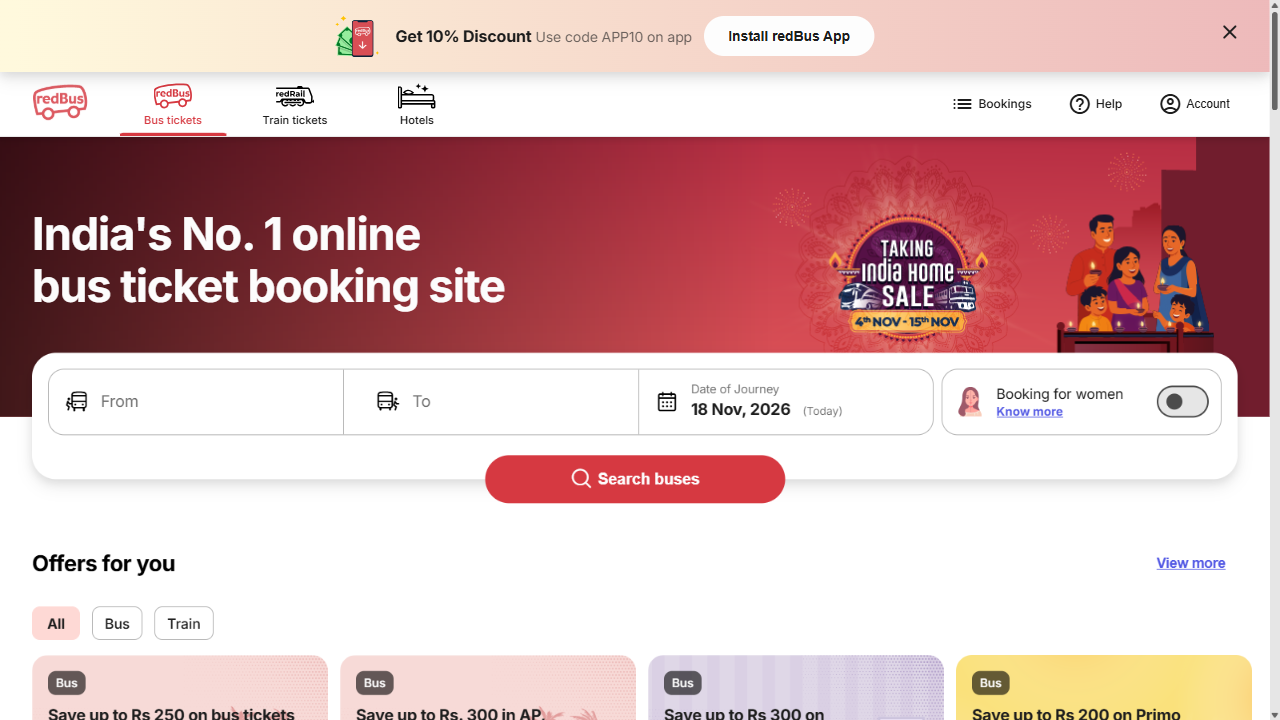
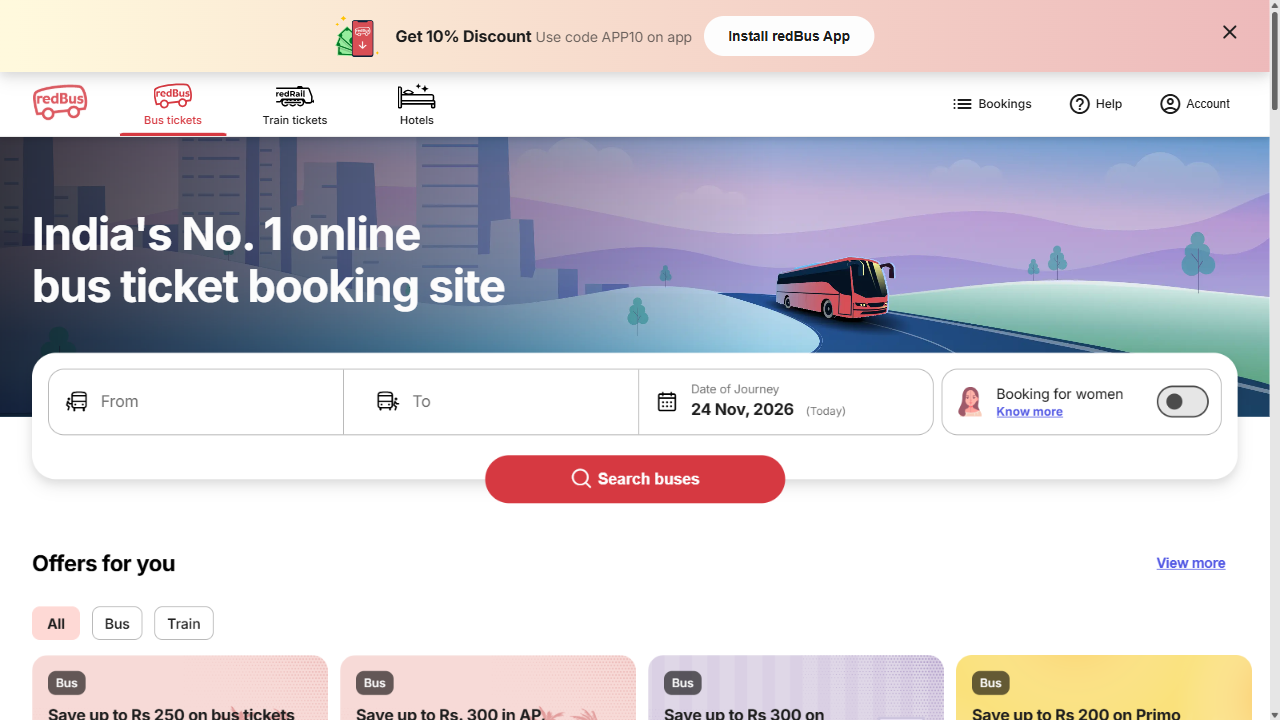
mergeTest

Changed region(s): [[0.0, 0.1833, 1.0, 0.5806], [0.5312, 0.55, 0.6562, 0.5806]]

diff --git a/tests/day2.spec.js b/tests/day2.spec.js
@@ -22,7 +22,7 @@ test('login page', async({page}) => {
 })
 
 
-test('fixtures', async({browser})=>{
+test.only('fixtures', async({browser})=>{
     const context1 = await browser.newContext();
     const page1 = await context1.newPage();
     await page1.goto("https://www.flipkart.com/");
@@ -34,4 +34,5 @@ test('fixtures', async({browser})=>{
     const context2 = await browser.newContext();
     const myntra = await context2.newPage();
     await myntra.goto("https://www.myntra.com/");
+
 })

diff --git a/tests/mergeTest.spec.js b/tests/mergeTest.spec.js
@@ -1,0 +1,8 @@
+import {test} from "@playwright/test"
+
+test('Merge', async ({page})=>{
+
+    await page.goto("https://www.ilovepdf.com")
+    await page.waitForTimeout(3000)
+    console.log("Merge Test sceanrio 1")
+})
